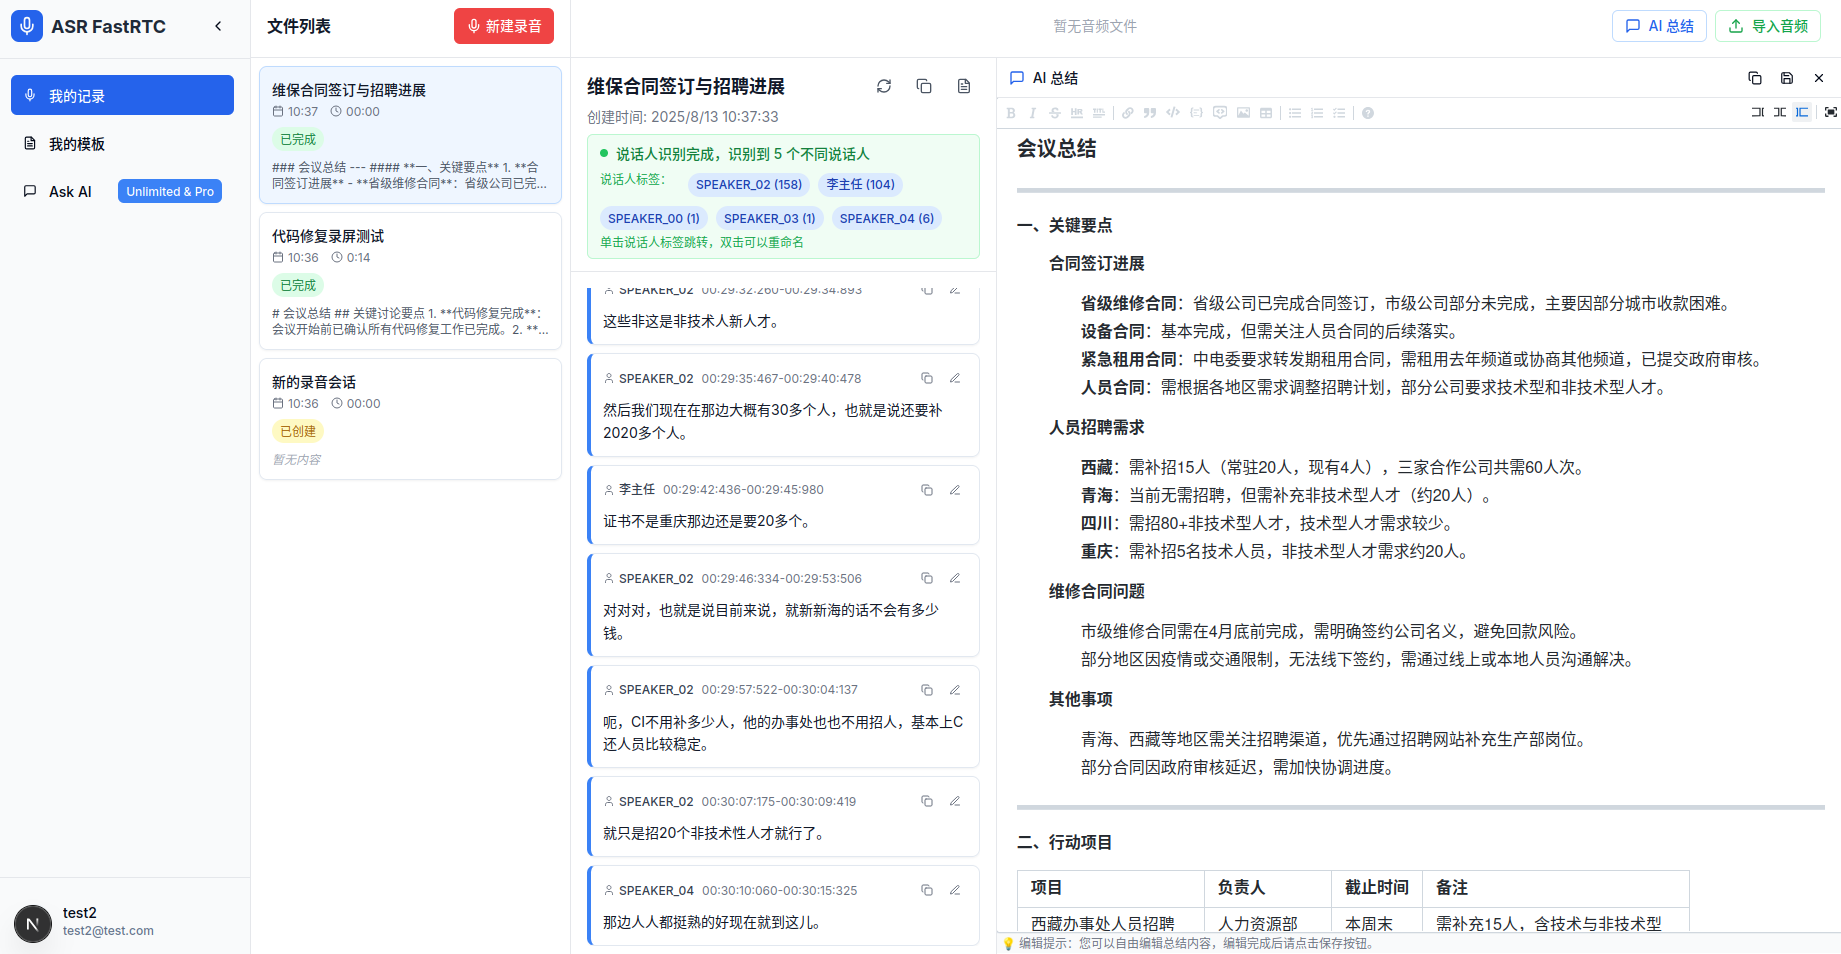
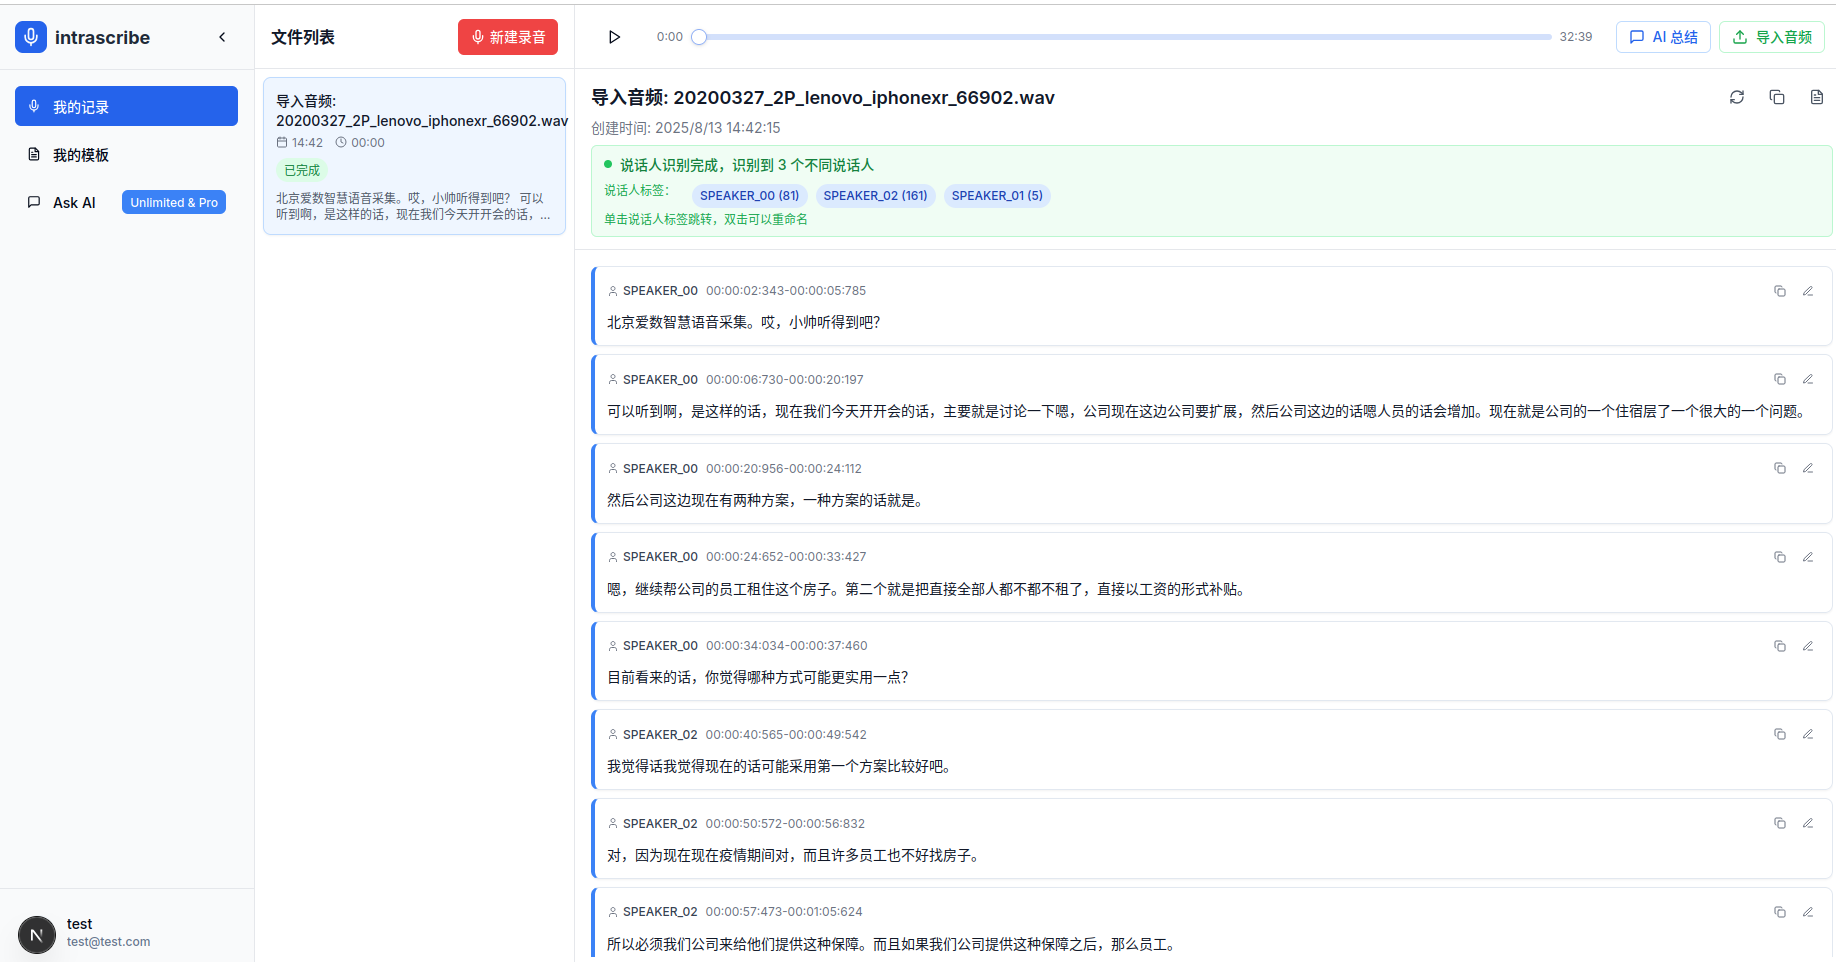
modify name

diff --git a/web/lib/supabase.ts b/web/lib/supabase.ts
@@ -26,7 +26,7 @@ function createSupabaseClient(): ReturnType<typeof createClient> {
         persistSession: true,
         detectSessionInUrl: true,
         storage: typeof window !== 'undefined' ? window.localStorage : undefined,
-        storageKey: 'asr-fastrtc-auth',
+        storageKey: 'intrascribe-auth',
         flowType: 'pkce'
       }
     })
@@ -41,7 +41,7 @@ function createSupabaseClient(): ReturnType<typeof createClient> {
         persistSession: true,
         detectSessionInUrl: true,
         storage: typeof window !== 'undefined' ? window.localStorage : undefined,
-        storageKey: 'asr-fastrtc-auth',
+        storageKey: 'intrascribe-auth',
         flowType: 'pkce'
       },
       realtime: {
@@ -51,7 +51,7 @@ function createSupabaseClient(): ReturnType<typeof createClient> {
       },
       global: {
         headers: {
-          'x-client-info': 'asr-fastrtc-web@1.0.0'
+          'x-client-info': 'intrascribe-web@1.0.0'
         }
       }
     })

diff --git a/web/components/error-boundary.tsx b/web/components/error-boundary.tsx
@@ -75,7 +75,7 @@ export class ErrorBoundary extends React.Component<
           if (typeof window !== 'undefined') {
             // 清理Supabase认证相关的localStorage
             Object.keys(localStorage).forEach(key => {
-              if (key.includes('supabase') || key.includes('auth') || key.includes('asr-fastrtc')) {
+              if (key.includes('supabase') || key.includes('auth') || key.includes('intrascribe')) {
                 console.log('🗑 清理localStorage key:', key)
                 localStorage.removeItem(key)
               }

diff --git a/web/components/sidebar.tsx b/web/components/sidebar.tsx
@@ -56,7 +56,7 @@ export function Sidebar({ currentView, onViewChange, user }: SidebarProps) {
               <div className="w-8 h-8 bg-primary rounded-lg flex items-center justify-center">
                 <Mic className="w-5 h-5 text-primary-foreground" />
               </div>
-              <h1 className="text-lg font-bold text-gray-800">ASR FastRTC</h1>
+              <h1 className="text-lg font-bold text-gray-800">intrascribe</h1>
             </div>
           )}
           <Button

diff --git a/web/app/auth/page.tsx b/web/app/auth/page.tsx
@@ -70,7 +70,7 @@ export default function AuthPage() {
             <Mic className="w-8 h-8 text-primary-foreground" />
           </div>
           <h2 className="text-lg font-semibold text-foreground">
-            ASR FastRTC
+            intrascribe
           </h2>
           <p className="text-sm text-muted-foreground">
             Real-time Audio Transcription

diff --git a/backend/main_v1.py b/backend/main_v1.py
@@ -1,5 +1,5 @@
 """
-ASR-FastRTC 应用入口
+intrascribe 应用入口
 负责初始化和启动FastAPI应用
 """
 import logging
@@ -67,7 +67,7 @@ logger.info("🚀 日志系统初始化完成")
 
 # 创建FastAPI应用
 app = FastAPI(
-    title="ASR-FastRTC API",
+    title="intrascribe API",
     description="自动语音识别与实时通信平台",
     version="1.0.0",
     debug=settings.debug
@@ -291,7 +291,7 @@ cur_dir = Path(__file__).parent
 @app.on_event("startup")
 async def startup_event():
     """应用启动事件"""
-    logger.info("🎬 ASR-FastRTC 应用启动中...")
+    logger.info("🎬 intrascribe 应用启动中...")
     logger.info(f"📖 配置信息:")
     logger.info(f"  - Debug模式: {settings.debug}")
     logger.info(f"  - API版本: {settings.api_version}")
@@ -321,7 +321,7 @@ async def startup_event():
 @app.on_event("shutdown")
 async def shutdown_event():
     """应用关闭事件"""
-    logger.info("🛑 ASR-FastRTC 应用正在关闭...")
+    logger.info("🛑 intrascribe 应用正在关闭...")
     
     # 清理会话缓存
     active_sessions = list(cache_manager.session_caches.keys())

diff --git a/backend/app/__init__.py b/backend/app/__init__.py
@@ -1,4 +1,4 @@
-# ASR-FastRTC 应用包
+# intrascribe 应用包
 __version__ = "1.0.0" 
 
 # Import audio processing service

diff --git a/doc/api_design_v2.md b/doc/api_design_v2.md
@@ -1,4 +1,4 @@
-# ASR-FastRTC API 设计文档 V1
+# intrascribe API 设计文档 V1
 
 ## 1. API 概览
 
@@ -539,7 +539,7 @@ GET /api/v1/sessions/{session_id}/audio_files/{file_id}
 ## 8. 客户端集成示例
 
 ```javascript
-// ASR-FastRTC Client (Simplified Example)
+// intrascribe Client (Simplified Example)
 
 // 0. 假设用户已通过 Supabase 登录
 // const { data, error } = await supabase.auth.signInWithPassword(...)

diff --git a/doc/architecture-design.md b/doc/architecture-design.md
@@ -1,4 +1,4 @@
-# ASR-FastRTC 架构设计文档
+# intrascribe 架构设计文档
 
 ## 1. 总体架构概览
 
